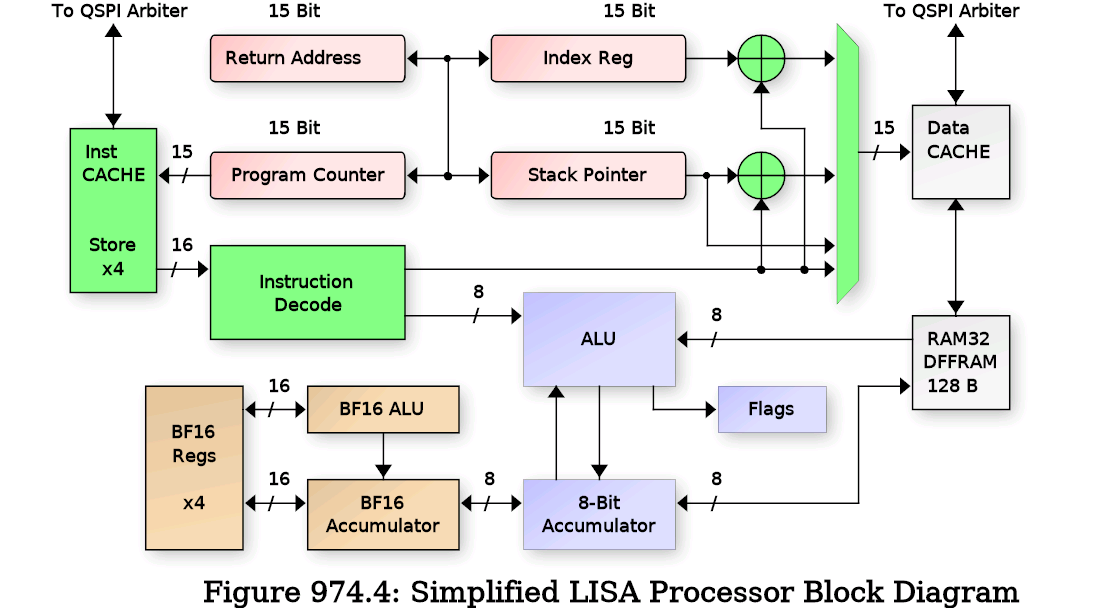
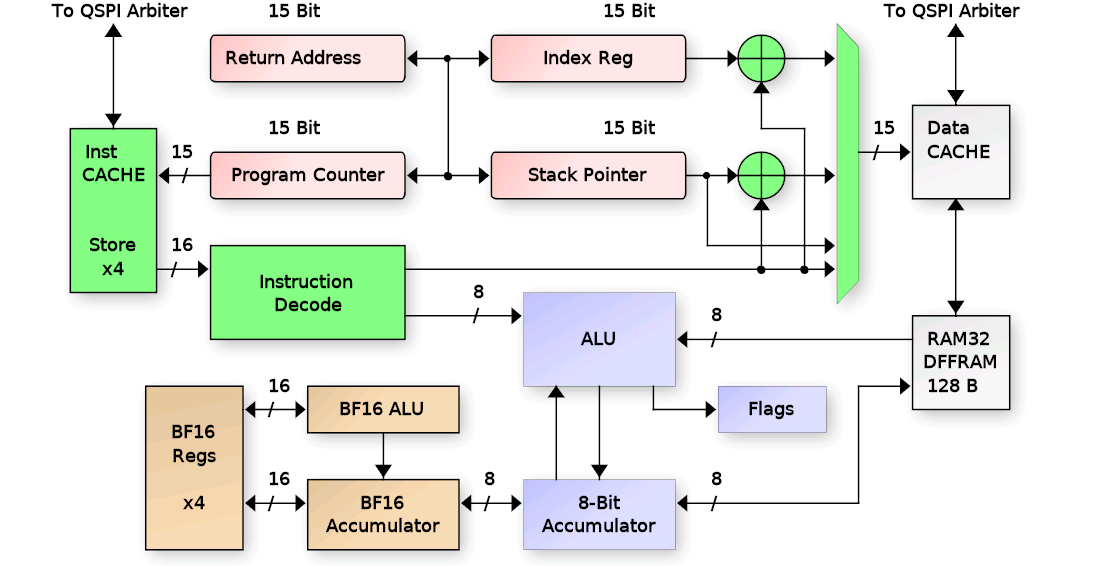
docs(tt_um_lisa): remove figure text from images and put into alt text instead

diff --git a/projects/tt_um_lisa/docs/info.md b/projects/tt_um_lisa/docs/info.md
@@ -6,7 +6,7 @@ would be found on commercial microcontrollers including timers, GPIO,
 UARTs and I2C.
 The following is a block diagram of the LISA Microcontroller:
 
-![](block_diag.png)
+![LISA Microcontroller Block Diagram](block_diag.png)
 
    - The LISA Core has a minimal set of register that allow it to run C programs:
       - Program Counter + Return Address Resister
@@ -60,7 +60,7 @@ I/O pins are auto-detected by the debug_autobaud module from the following choic
     uio_in[4] / uio_out[5]    LISA PMOD board (I am developing)
     uio_in[6] / uio_out[5]    Standard UART PMOD
 
-![](debug_uart.png)
+![Debug Connectivity and Autobaud](debug_uart.png)
 
 The RX/TX pair port is auto-detected after reset by the autobaud circuit, and the UART baud rate can either be
 configured manually or auto detected by the autobaud module.  After reset, the ui_in[7] pin is sampled to determine
@@ -130,7 +130,7 @@ QUAD SPI, Flash or SRAM access, 16-Bit or 24-Bit addressing, and selectable Chip
 type of access.  To achieve this, a QSPI arbiter is used to allow multiple accessors as shown in
 the following diagram:
 
-![](qspi_arch.png)
+![(Q)SPI Controller Interface Diagram](qspi_arch.png)
 
 The arbiter is controlled via configuration registers (accessible by the Debug controller)
 that specify the operating mode per CE, and CE selection bits for each of the three interfaces:
@@ -256,7 +256,7 @@ word or from a memory location addressed by either the Stack Pointer (SP) or Ind
 There are also instructions that work on the 15-bit registers PC, SP, IX and RA (Return Address).  As
 well as floating point operations. These will be covered in the sections to follow.
 
-![](lisa_arch.png)
+![Simplified LISA Processor Block Diagram](lisa_arch.png)
 
 ### Addressing Modes
 
@@ -397,8 +397,8 @@ To do any useful work, the LISA core must be able to load and operate on data.  
 accumulator using the various addressing modes.  The diagram below details the Direct addressing mode where
 data is stored directly in the opcode / instruction word:
 
-![](lisa_direct_acc.png)
-\clearpage
+![Accumulator Direct Operations Diagram](lisa_direct_acc.png)
+
 The instructions that use direct addressing are:
 
  | Opcode | Operation        | Encoding            | Description               |
@@ -416,7 +416,7 @@ The Accumulator Indirect operations use immediate data in the instruction word t
 indirectly into Data memory.  That memory address is then used to load, store or both
 load and store (swap) data with the accumulator.
 
-![](lisa_indirect_acc.png)
+![Accumulator Indirect Operations Diagram](lisa_indirect_acc.png)
 
  | Opcode | Operation   | Encoding            | Description                   |
  | ------ | ----------- | ------------------- | ----------------------------- |
@@ -436,7 +436,7 @@ sign extended, so only positive direction indexing is supported.  This was selec
 is typically used to access either local variables (when using SP) or C struct members (when using IX), 
 and in both cases, negative index offsets aren't very useful.  The following is a diagram of indexed addressing:
 
-![](lisa_indexed.png)
+![Indexed Addressing Diagram](lisa_indexed.png)
 
  | Opcode | Operation       | Encoding            | Description                         |
  | ------ | --------------- | ------------------- | ----------------------------------- |
@@ -457,7 +457,7 @@ and in both cases, negative index offsets aren't very useful.  The following is 
  |        | M[ind] <= A     |                     |                                     |
  | xor    | A <= A ^ M[ind] | 1110_00si_iiii_iiii | XOR A with index memory             |
 
-\clearpage
+
 Legend for table above:
 
  - ind = IX or SP + immediate
@@ -481,7 +481,7 @@ Stack operations use the current value of the SP register to PUSH and POP items 
 opcode.  As items are PUSHed to the stack, the SP is decremented after each byte, and as they
 are POPed, the SP is incremented prior to reading from RAM.
 
-![](lisa_stack.png)
+![Stack Addressing Diagram](lisa_stack.png)
 
  | Opcode  | Operation     | Encoding            | Description               |
  | ------- | ------------- | ------------------- | ------------------------- |
@@ -510,7 +510,6 @@ Also need to download the Python based debugger.
   - C compiler is somewhat functional (no float support at the moment) but has *many* bugs in the generated code and is still a work in progress.
   - Python debugger can erase/program the FLASH, program SPI SRAM, start/stop the LISA core, read SRAM and registers.
 
-\clearpage
 ### Legend for Pinout
 
   - pa: LISA GPIO PortA Input
